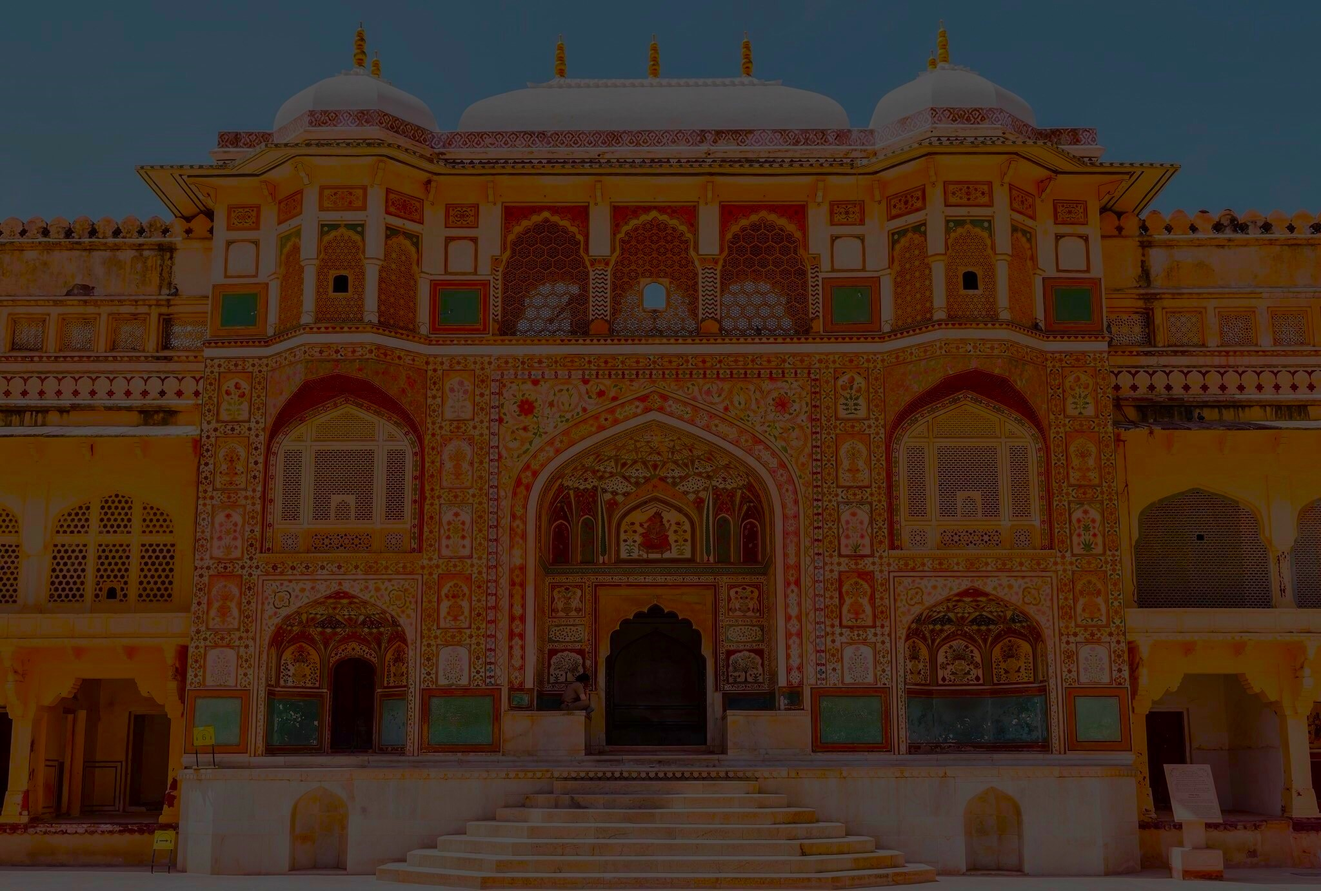
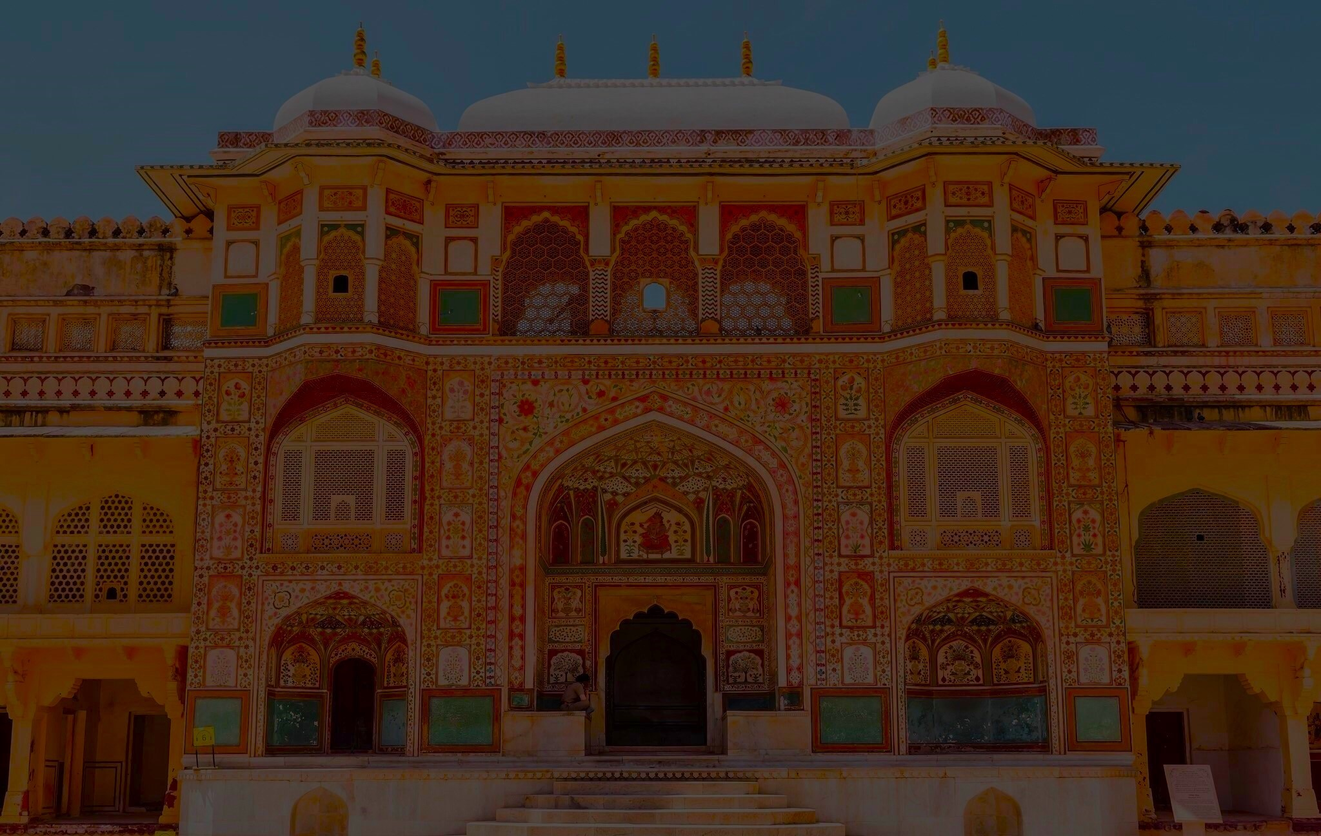
chore: Update header styling and responsiveness

diff --git a/src/css/styles.css b/src/css/styles.css
@@ -13,10 +13,9 @@ body {
     width: 100%;
     height: 95vh;
     position: relative;
-    z-index: -1;
 }
    /*  Header Begin */
-header{
+   header{
     max-width: 100%;
     background-color: transparent;
     height: 90px;
@@ -29,17 +28,19 @@ header{
 
 }
 header .logo{
+    padding-top: 2%;
     height: 100%;
+    margin-left: 3%;
 }
 
 header .logo img{
-    width: 130px;
+    width: 100px;
     height: 100%;
 }
 
 nav{
     height: 100%;
-
+    
 }
 
 nav ul{
@@ -70,15 +71,15 @@ nav ul li:hover #committee,nav ul li:hover #partner,nav ul li:hover #about{
 
 #committee{
     width: 600px;
-    height: 220px;
+    height: 230px;
 }
 #partner{
     width: 200px;
-    height: 60px;
+    height: 80px;
 }
 #about{
     width: 250px;
-    height: 90px;
+    height: 110px;
 }
 
 nav ul li ul{
@@ -126,27 +127,27 @@ nav.show{
 @media screen and (max-width:1270px){
     header{
         padding:  10px;
-        background-color: rgb(255, 255, 255);
+        background-color: rgba(255, 255, 255, 0);
     }
     nav ul li ul{
         top: -10px;
     }
     #hamburger{
         display: block;
-        color: black;
+        color: rgb(255, 255, 255);
     }
     nav{
         position: absolute;
         left: 0;
         right: 0;
         z-index: -999;
-        top: -400%;
+        top: -400%; 
         transition:all .5s ease-in-out;
         width: 100%;
         height: 100vh;
         /* display: none; */
         background-color: rgb(0, 0, 0);
-
+        
     }
     nav ul{
         flex-direction: column;
@@ -154,45 +155,45 @@ nav.show{
         align-items:start;
         padding-left: 10px;
         row-gap: 30px;
-
+        
     }
     nav ul li:first-child{
         margin-top: 35px;
     }
-    nav ul li ul li{
+     nav ul li ul li{
         margin-top: 10px;
-    }
-    nav ul li a{
+     }
+     nav ul li a{
         font-size: 20px;
-    }
+     }
 
-    #committee{
+     #committee{
         position: relative;
         left: 0;
         width: 100%;
         height: 300px;
         background: transparent;
-
-    }
-    #partner{
+        
+     }
+     #partner{
         position: relative;
         left: 0;
         width: 100%;
         height: 100px;
         background: transparent;
-    }
-    #about{
+     }
+     #about{
         position: relative;
         left: 0;
         width: 100%;
         height: 150px;
         background: transparent;
-    }
+     }
 }
 
 @media screen and (max-width:780px){
-    #committee{
-        height: 270px;
+    #committee{ 
+        height: 270px;    
     }
     #partner{
         height: 30px;
@@ -204,8 +205,8 @@ nav.show{
 
 
 @media screen and (max-width:550px){
-    #committee{
-        height: 300px;
+    #committee{ 
+        height: 300px;    
     }
     #partner{
         height: 35px;
@@ -215,7 +216,8 @@ nav.show{
     }
 }
 
-/* Header End*/
+
+    /* Header End*/
 
 .center-image {
     display: flex;
@@ -273,7 +275,7 @@ nav.show{
 }
     /* Homepage End */
     
-    /* Crousel Begin */
+    /* Countdown Begin */
     .carousel {
     position: relative;
     width: 100%;
@@ -350,11 +352,11 @@ nav.show{
     @media (max-width: 600px) {
 
     .hero-section {
-        height: 85vh; 
+        height: 102vh; 
     }
 
     .center-image {
-        padding-top: 60%; 
+        padding-top: 28%; 
     }
 
     .center-logo {

diff --git a/index.html b/index.html
@@ -70,9 +70,8 @@
             <div id="hamburger">&#9776;</div>
             <div id="cross">&times;</div>
         </header>
+        
         <!-- Header End-->
-
-                <!-- NAVBARL Begin -->
 
                 <!-- Center Image-->
             <div class="center-image">

diff --git a/src/js/script.js b/src/js/script.js
@@ -32,4 +32,3 @@ function updateIndicators() {
 
 // Automatically move to the next slide every 2 seconds
 setInterval(() => move(1), intervalTime);
-
